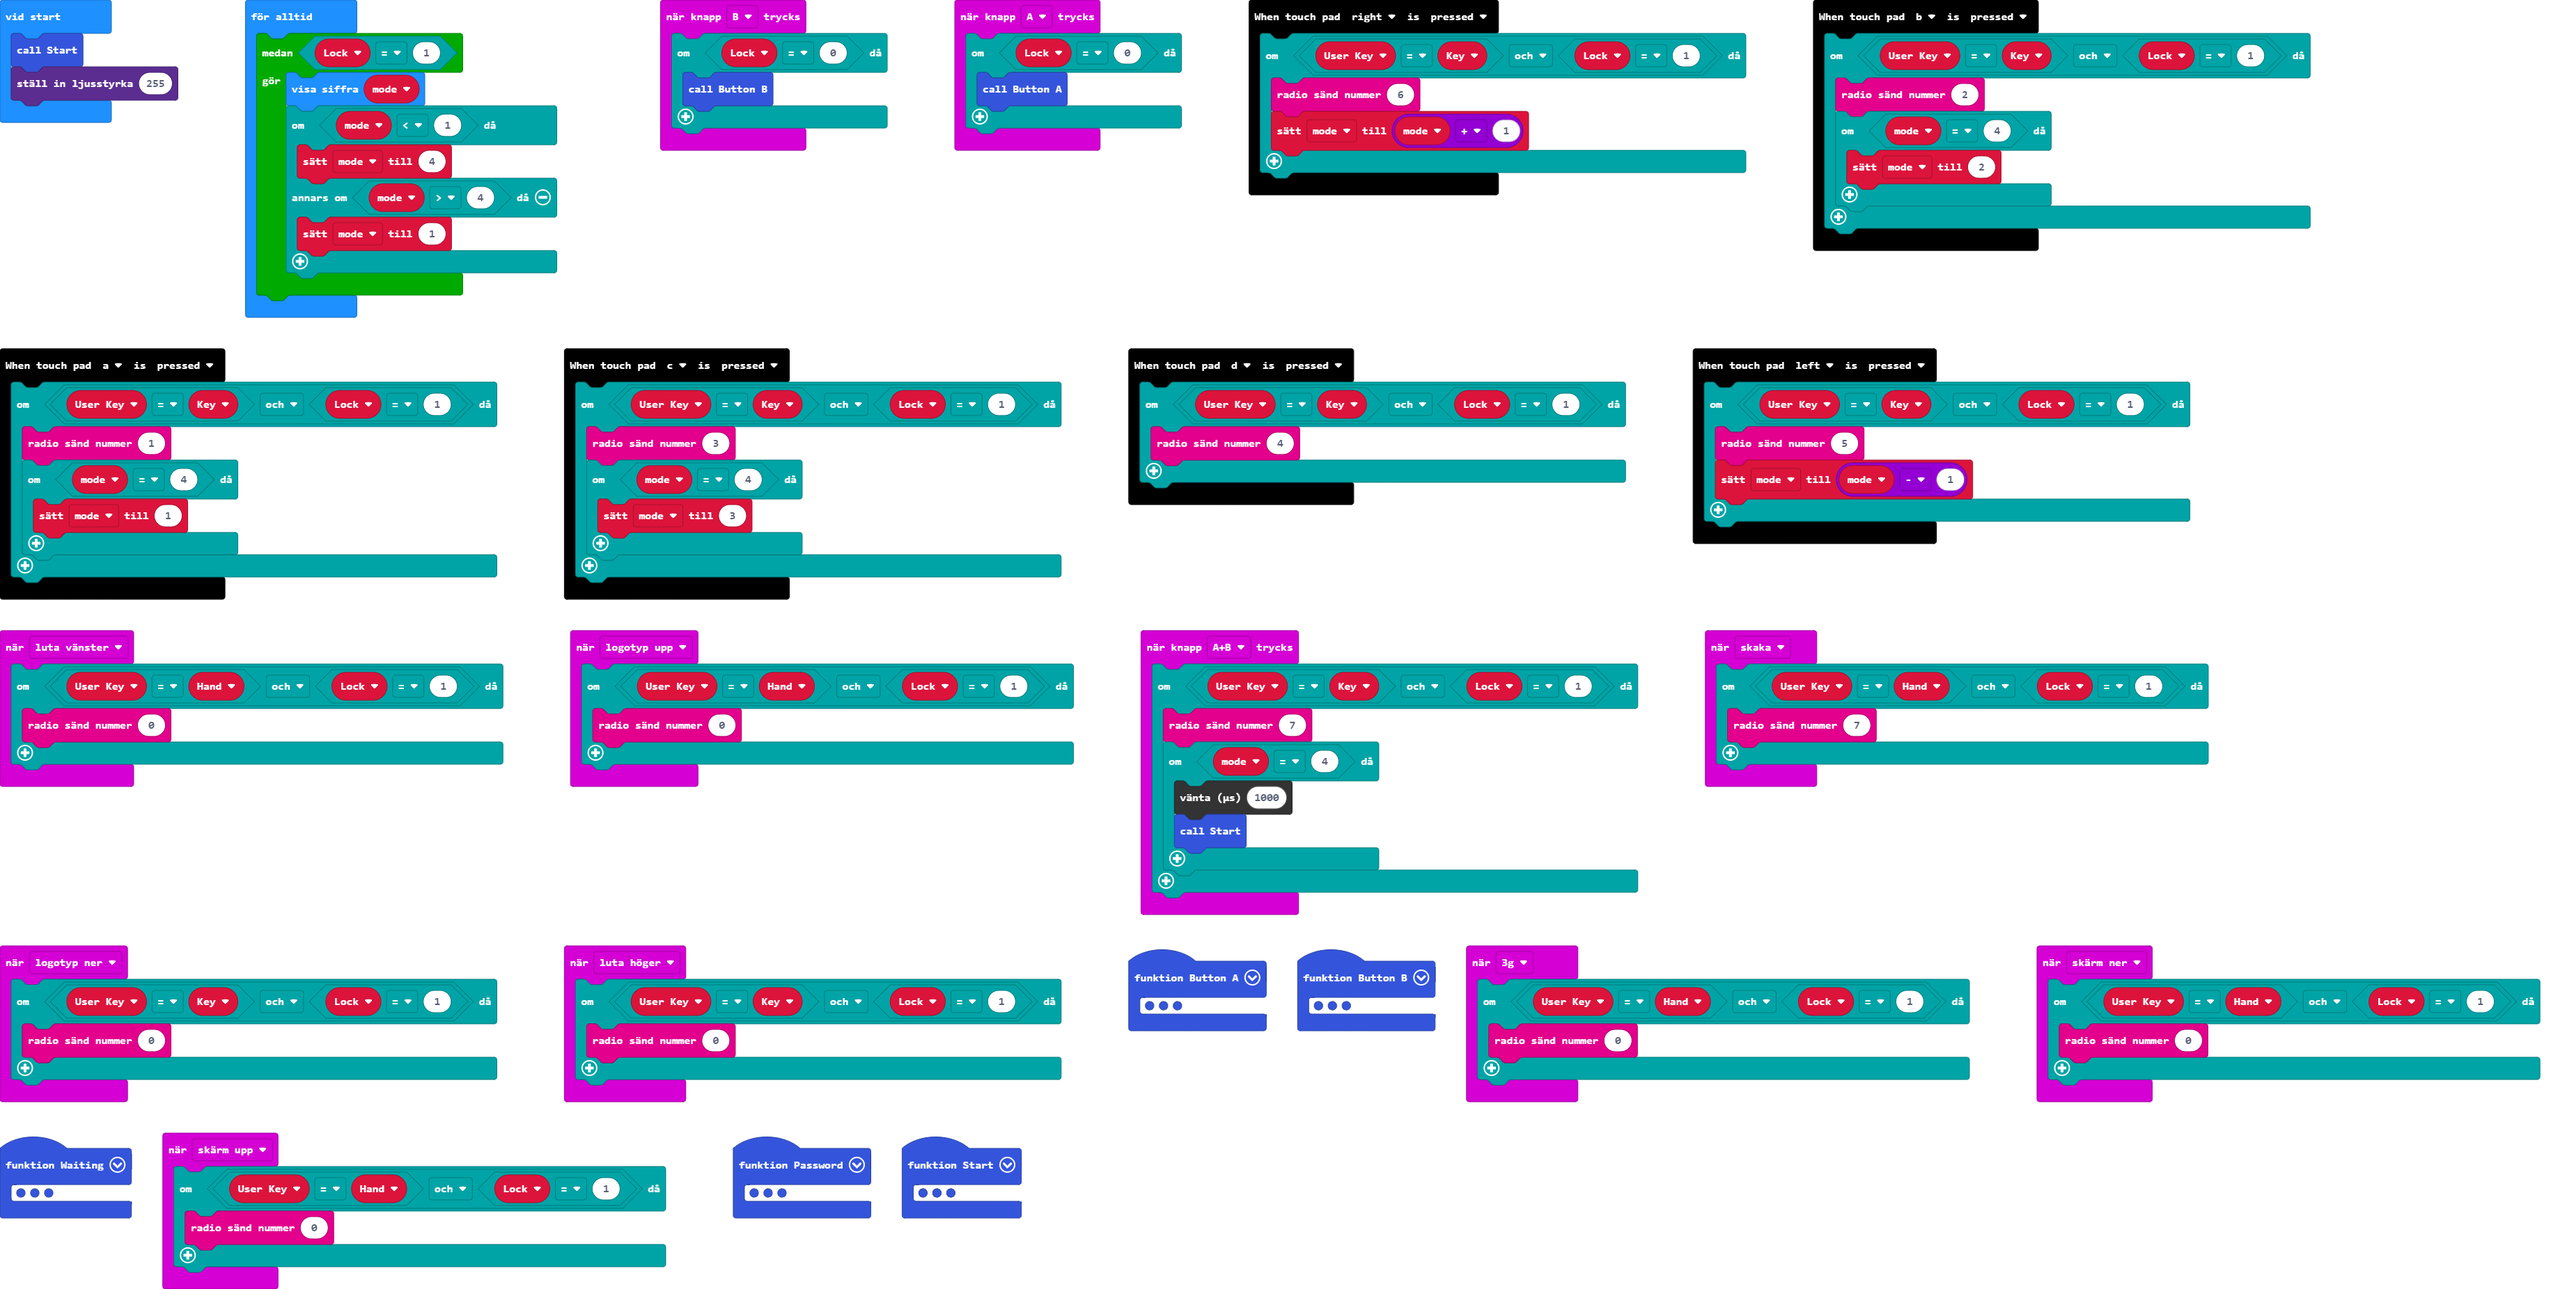
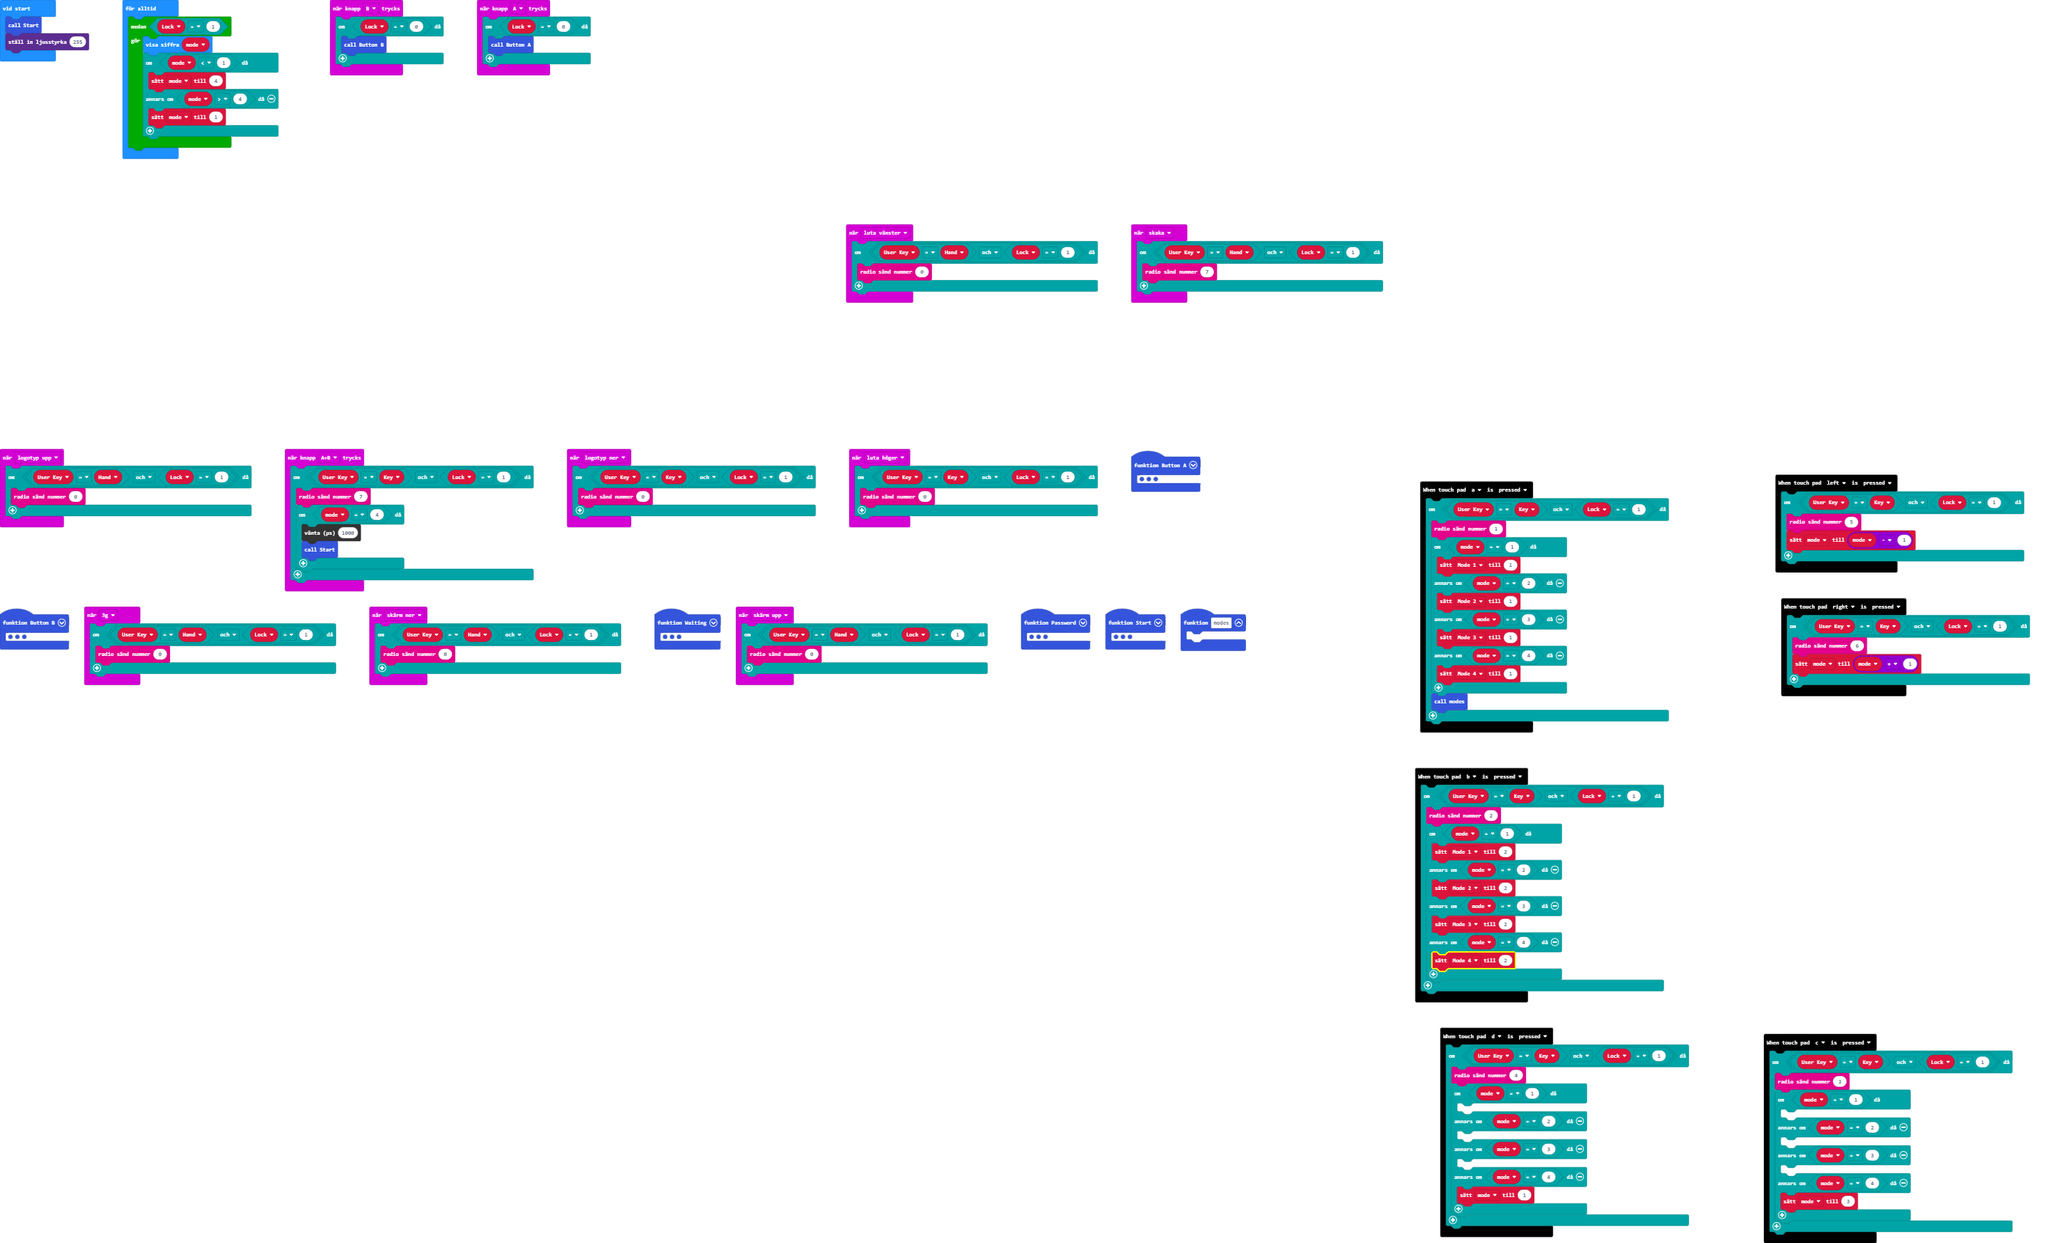
Update pxt.json, main.blocks, main.ts

diff --git a/main.ts b/main.ts
@@ -34,8 +34,14 @@ function Password () {
 touchbit.on(touchbit.TouchPad.b, touchbit.TouchEvent.pressed, function () {
     if (User_Key == Key && Lock == 1) {
         radio.sendNumber(2)
-        if (mode == 4) {
-            mode = 2
+        if (mode == 1) {
+            Mode_1 = 2
+        } else if (mode == 2) {
+            Mode_2 = 2
+        } else if (mode == 3) {
+            Mode_3 = 2
+        } else if (mode == 4) {
+            Mode_4 = 2
         }
     }
 })
@@ -84,6 +90,15 @@ input.onGesture(Gesture.Shake, function () {
 touchbit.on(touchbit.TouchPad.d, touchbit.TouchEvent.pressed, function () {
     if (User_Key == Key && Lock == 1) {
         radio.sendNumber(4)
+        if (mode == 1) {
+        	
+        } else if (mode == 2) {
+        	
+        } else if (mode == 3) {
+        	
+        } else if (mode == 4) {
+            mode = 1
+        }
     }
 })
 function Button_A () {
@@ -118,7 +133,13 @@ input.onGesture(Gesture.LogoDown, function () {
 touchbit.on(touchbit.TouchPad.c, touchbit.TouchEvent.pressed, function () {
     if (User_Key == Key && Lock == 1) {
         radio.sendNumber(3)
-        if (mode == 4) {
+        if (mode == 1) {
+        	
+        } else if (mode == 2) {
+        	
+        } else if (mode == 3) {
+        	
+        } else if (mode == 4) {
             mode = 3
         }
     }
@@ -132,6 +153,9 @@ input.onButtonPressed(Button.AB, function () {
         }
     }
 })
+function modes () {
+	
+}
 input.onButtonPressed(Button.B, function () {
     if (Lock == 0) {
         Button_B()
@@ -140,9 +164,16 @@ input.onButtonPressed(Button.B, function () {
 touchbit.on(touchbit.TouchPad.a, touchbit.TouchEvent.pressed, function () {
     if (User_Key == Key && Lock == 1) {
         radio.sendNumber(1)
-        if (mode == 4) {
-            mode = 1
+        if (mode == 1) {
+            Mode_1 = 1
+        } else if (mode == 2) {
+            Mode_2 = 1
+        } else if (mode == 3) {
+            Mode_3 = 1
+        } else if (mode == 4) {
+            Mode_4 = 1
         }
+        modes()
     }
 })
 input.onGesture(Gesture.ThreeG, function () {
@@ -200,6 +231,10 @@ function Waiting () {
         }
     }
 }
+let Mode_4 = 0
+let Mode_3 = 0
+let Mode_2 = 0
+let Mode_1 = 0
 let Try = 0
 let Count = 0
 let mode = 0
